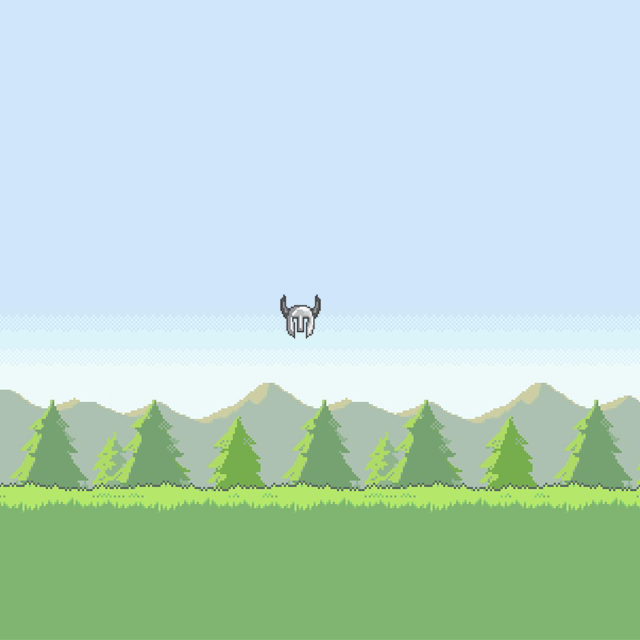
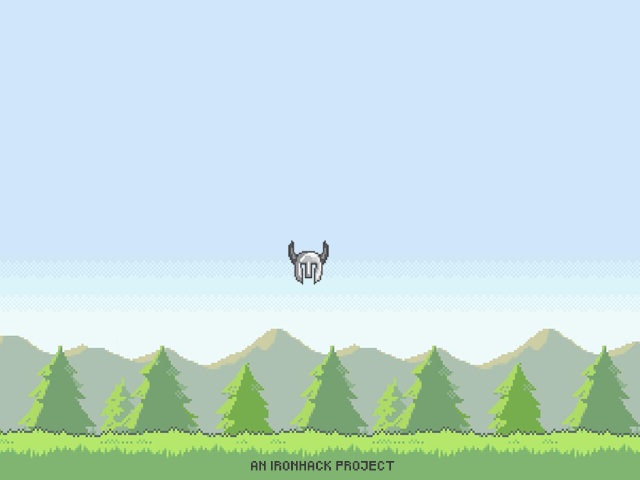
Village 1 design + collide completed

Changed region(s): [[0.0, 0.4688, 1.0, 1.0]]

diff --git a/main.js b/main.js
@@ -1,6 +1,6 @@
 // Object initiation
-player1 = new Player(320, 240);
-player2 = new Player(280, 240);
+player1 = new Player(350, 300);
+player2 = new Player(300, 300);
 monster = new Monster();
 village = new Village(2000);
 wall = new Wall();
@@ -17,6 +17,7 @@ window.onload = function() {
   $('.btn').click(function() {
     $('#start').css('display', 'none');
     $('canvas').css('display', 'block');
+    $('#sidebar').css('display', 'block');
   });
 
   // Functions to execute once
@@ -36,6 +37,8 @@ window.onload = function() {
   function update() {
     // Clear board
     ctx.clearRect(0, 0, canvas.width, canvas.height);
+    $('#player1x').html('x: ' + Math.round(player1.x));
+    $('#player1y').html('y: ' + Math.round(player1.y));
 
     // Draw players
     player1.draw();
@@ -46,7 +49,7 @@ window.onload = function() {
     drawMonsterArmy();
 
     // Draw walls
-    drawWalls();
+    // drawWalls();
 
     // Village
     village.loseHealth();
@@ -66,10 +69,19 @@ window.onload = function() {
   }
 
   function createWalls() {
-    wall.array.push(new Wall(30, 90, 50, 40));
-    wall.array.push(new Wall(180, 30, 50, 40));
-    wall.array.push(new Wall(530, 214, 50, 40));
-    wall.array.push(new Wall(310, 430, 200, 30));
+    //                        x   y   w   h
+    wall.array.push(new Wall(32, 30, 32, 32));
+    wall.array.push(new Wall(33, 165, 32, 32));
+    wall.array.push(new Wall(97, 226, 32, 32));
+    wall.array.push(new Wall(9, 324, 45, 55));
+    wall.array.push(new Wall(0, 420, 160, 32));
+    wall.array.push(new Wall(160, 428, 130, 32));
+    wall.array.push(new Wall(287, 384, 99, 32));
+    wall.array.push(new Wall(388, 428, 130, 32));
+    wall.array.push(new Wall(512, 352, 60, 62));
+    wall.array.push(new Wall(572, 415, 80, 62));
+    wall.array.push(new Wall(273, 163, 110, 90));
+    wall.array.push(new Wall(608, 0, 32, 125));
   }
 
   function randomBetween(min, max) {
@@ -99,7 +111,7 @@ window.onload = function() {
 
   function drawWalls() {
     for (var i = 0; i < wall.array.length; i++) {
-      wall.draw(wall.array[i].x, wall.array[i].y, wall.array[i].width, wall.array[i].height, 'red');
+      wall.draw(wall.array[i].x, wall.array[i].y, wall.array[i].width, wall.array[i].height, 'rgba(255,0,0,0.5)');
     }
   }
 

diff --git a/styles.css b/styles.css
@@ -1,3 +1,5 @@
+body { overflow: hidden; }
+
 #start {
   display: block;
   width: 640px;
@@ -7,12 +9,31 @@
   z-index: 3;
 }
 
+#gameStarted {
+  display: flex;
+  align-items: center;
+  justify-content: center;
+  width: 100vw;
+  height: 100vh;
+}
+
 canvas {
   display: none;
   width: 640px;
   height: 480px;
-  background-color: #564343;
+  background-image: url('./images/village1.png');
   z-index: 2;
+  order: 1;
+}
+
+#sidebar {
+  display: none;
+  width: 200px;
+  height: 480px;
+  background-color: #e0e0e0;
+  order: 2;
+  border: 1px solid #c8c8c8;
+  box-sizing: border-box;
 }
 
 .shadow {
@@ -45,7 +66,7 @@ canvas {
 
 .player1 {
   margin-left: 100px;
-  margin-right: 30px;
+  margin-right: 64px;
 }
 
 .btn:hover {

diff --git a/index.html b/index.html
@@ -21,12 +21,15 @@
     <div id="start" class="center">
       <img class="logo" src="./images/logo.png" />
       <img class="btn player1" src="./images/player1.png" />
-      <img class="btn" src="./images/2players-nohover.png" />
+      <img class="btn" src="./images/player2.png" />
     </div>
 
     <div id="gameStarted">
-      <canvas id="game" class="center" width="640" height="480"></canvas>
-      <div id="sidebar"></div>
+      <canvas id="game" width="640" height="480"></canvas>
+      <div id="sidebar">
+        <span id="player1x"></span><br>
+        <span id="player1y"></span>
+      </div>
     </div>
 
     <div id="gameover" class="center"></div>
